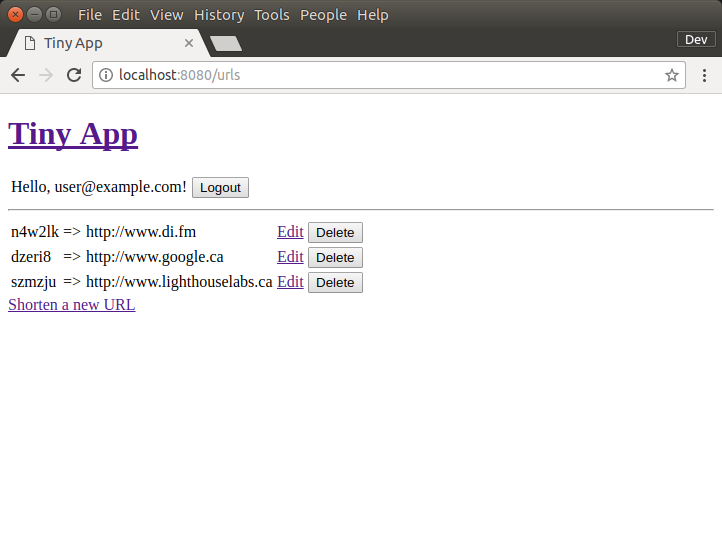
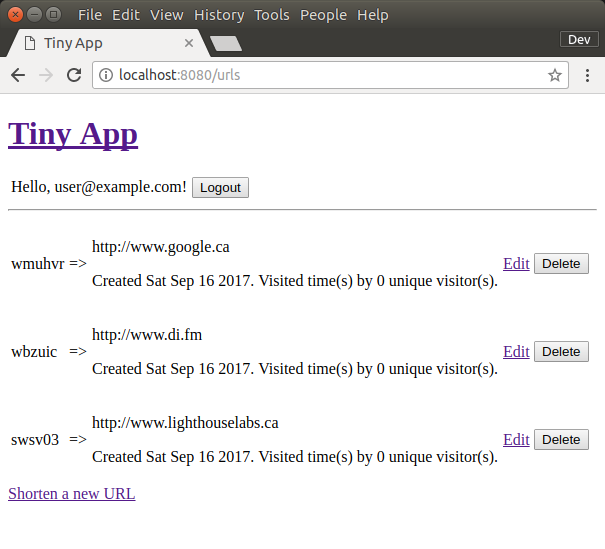
updated readme

diff --git a/README.md b/README.md
@@ -5,7 +5,7 @@ TinyApp is a full stack web application built with Node and Express that allows 
 ## Final Product
 
 !["tinyURL lists all the URLs you've tinified!"](https://github.com/MattLatimer/tiny-app/blob/master/docs/tinyURL-list.png?raw=true)
-!["Create new tinyURLs to anywhere on the web!"](https://github.com/MattLatimer/tiny-app/blob/master/docs/tinyURL-new.png?raw=true)
+!["Keep track of when your link is clicked, and how many different people are clicking!"](https://github.com/MattLatimer/tiny-app/blob/master/docs/tinyURL-show.png?raw=true)
 
 ## Dependencies
 
@@ -15,6 +15,7 @@ TinyApp is a full stack web application built with Node and Express that allows 
 - bcrypt
 - body-parser
 - cookie-session
+- method-override
 
 ## Getting Started
 
